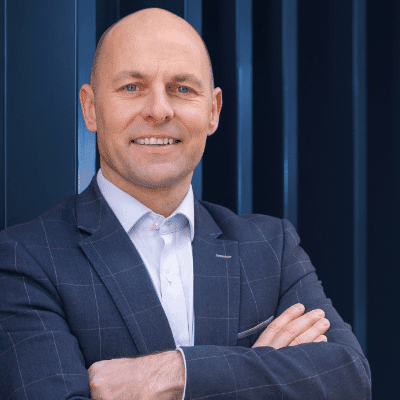
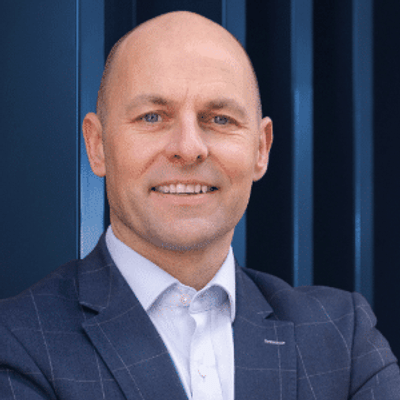
fix(testimonial): centre the head in the portrait crop
Was cropped from left 60 at 400px, which left the head off to one side
and the face small in a 72px circle. Now 300x300 from left 78: head
centred, face readable at avatar size.

diff --git a/starkdigital/src/lib/proof.ts b/starkdigital/src/lib/proof.ts
@@ -63,6 +63,9 @@ export const terms = {
  * The client testimonial, in one place because it appears on the case study
  * index and inside the case study itself.
  *
+ * Portrait is cropped from anthony-joyce.png at left 78, top 0, 300x300, which
+ * centres the head in the round frame and keeps the face readable at 72px.
+ *
  * The previous site attributed this to "Eoin Gallagher, Managing Director".
  * Confirmed with Maik: the words are Anthony Joyce's, the firm's owner. Photo
  * use is cleared with the client.
